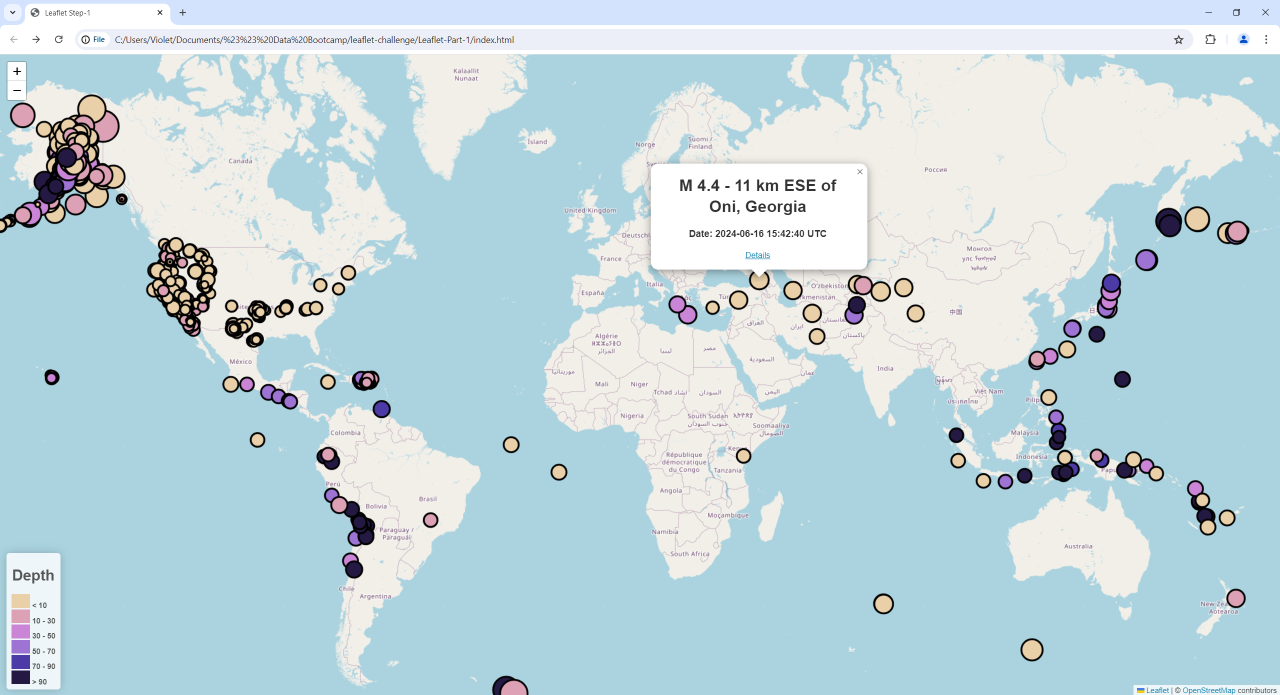
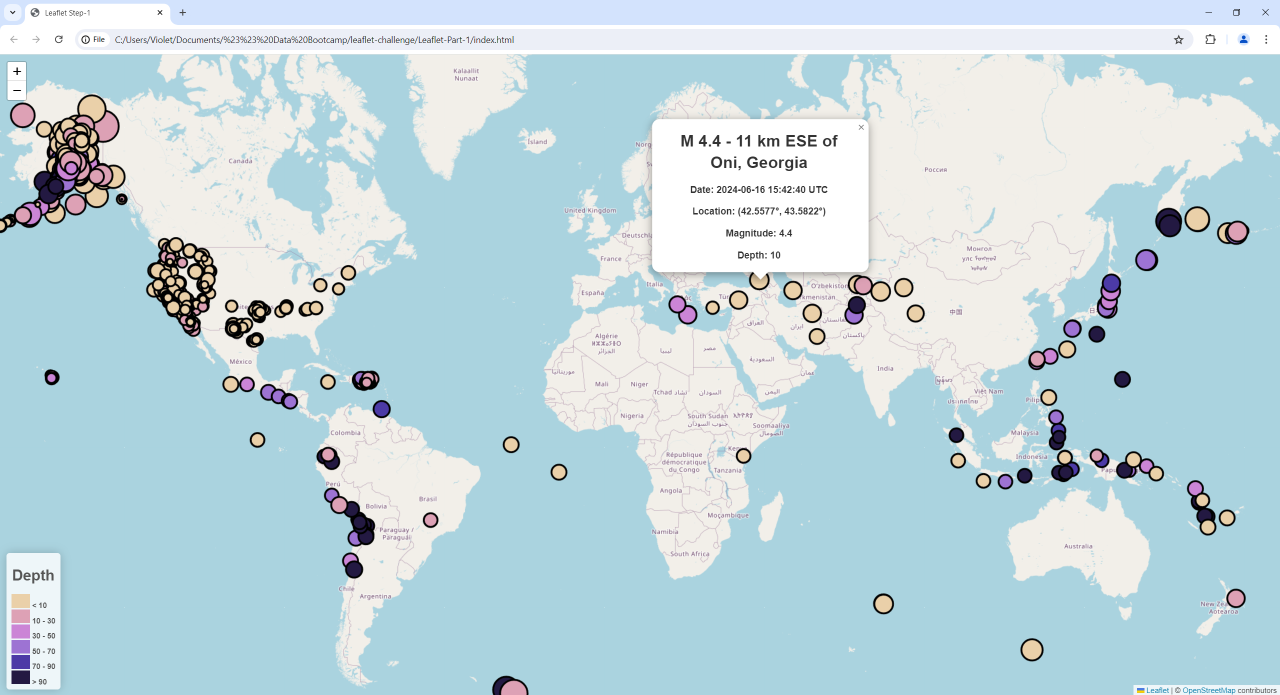
updated pop-ups

Changed region(s): [[0.5, 0.1511, 0.6875, 0.3928], [0.0312, 0.2115, 0.0625, 0.2719]]

diff --git a/Leaflet-Part-1/static/js/logic.js b/Leaflet-Part-1/static/js/logic.js
@@ -85,7 +85,9 @@ d3.json("https://earthquake.usgs.gov/earthquakes/feed/v1.0/summary/all_week.geoj
 
         let popupString = `<h1>${title}</h1>
         <h3>Date: ${dateString}</h3>
-        <a href=${detail}>Details</a>
+        <h3>Location: (${circLocation[0]}°, ${circLocation[1]}°)</h3>
+        <h3>Magnitude: ${mag}</h3>
+        <h3>Depth: ${depth}</h3>
         `;
 
 
